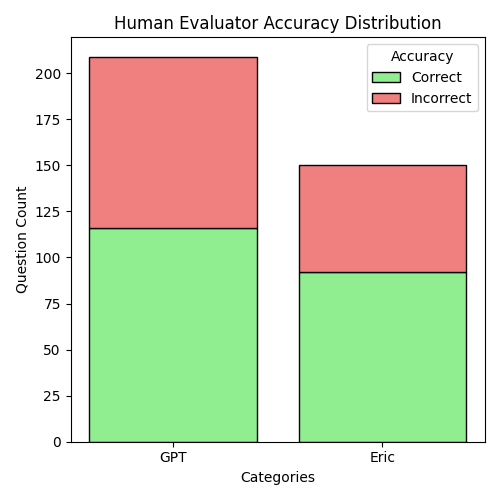
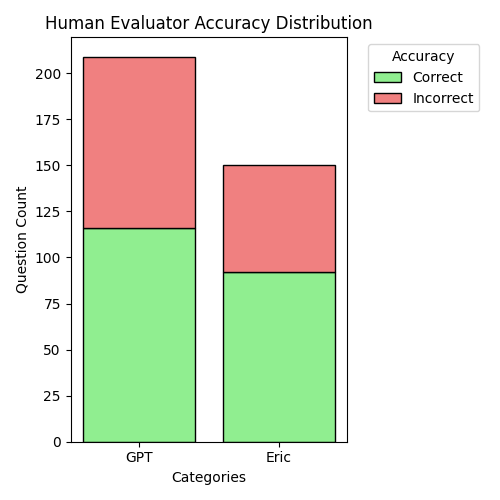
add naive bayes accuracy in graph

diff --git a/src/evaluation_methods/human_evaluation.py b/src/evaluation_methods/human_evaluation.py
@@ -16,20 +16,27 @@ print("bot acc: ", (bot_corr / (bot_corr + bot_inc)))
 print("emily acc: ", (og_corr / (og_corr + og_inc)))
 
 categories = ("GPT", "Fine Tuned LLM", "Emily")
-correct = [gpt_corr, bot_corr, og_corr]
-incorrect = [gpt_inc, bot_inc, og_inc]
+correct = [gpt_corr / (gpt_corr + gpt_inc), bot_corr / (bot_corr + bot_inc), og_corr / (og_corr + og_inc)]
+incorrect = [gpt_inc / (gpt_corr + gpt_inc), bot_inc / (bot_corr + bot_inc), og_inc / (og_corr + og_inc)]
+
+nb_corr = [5 / 9, 7 / 9, 4 / 6]
+nb_inc = [4 / 9, 2 / 9, 2 / 6]
 
 x = np.arange(len(categories))
+bar_width = 0.3
+space = 0.05
 
-fig, ax = plt.subplots(figsize=(5, 5
-))
+fig, ax = plt.subplots(figsize=(8, 6))
 
-bar1 = ax.bar(x, correct, label='Correct', color='lightgreen', edgecolor='black')
-bar2 = ax.bar(x, incorrect, bottom=correct, label='Incorrect', color='lightcoral', edgecolor='black')
+bar1 = ax.bar(x - (bar_width + space) / 2, correct, bar_width, label='Human Correct', color='lightgreen', edgecolor='black')
+bar2 = ax.bar(x - (bar_width + space) / 2, incorrect, bar_width, bottom=correct, label='Human Incorrect', color='lightcoral', edgecolor='black')
+
+bar3 = ax.bar(x + (bar_width + space) / 2, nb_corr, bar_width, label='Naive Bayes Correct', color='darkgreen', edgecolor='black')
+bar4 = ax.bar(x + (bar_width + space) / 2, nb_inc, bar_width, bottom=nb_corr, label='Naive Bayes Incorrect', color='darkred', edgecolor='black')
 
 ax.set_xlabel("Categories")
-ax.set_ylabel("Question Count")
-ax.set_title("Human Evaluator Accuracy Distribution")
+ax.set_ylabel("Question Percentage")
+ax.set_title("Human vs Naive Bayes Evaluator Accuracy Distribution")
 ax.set_xticks(x)
 ax.set_xticklabels(categories)
 ax.legend(title="Accuracy")
@@ -68,7 +75,7 @@ ax.set_ylabel("Question Count")
 ax.set_title("Human Evaluator Accuracy Distribution")
 ax.set_xticks(x)
 ax.set_xticklabels(categories)
-ax.legend(title="Accuracy")
+ax.legend(title="Accuracy", bbox_to_anchor=(1.05, 1), loc='upper left')
 
 plt.tight_layout()
 plt.savefig("IGPT/src/evaluation_methods/eric_category_accuracy.png")

diff --git a/src/fine_tuning/fine_tune_llama.py b/src/fine_tuning/fine_tune_llama.py
@@ -38,10 +38,10 @@ def tokenize_function(examples):
 
 tokenized_dataset = dataset['train'].map(tokenize_function, batched=True)
 
-train_subset = list(islice(iter(tokenized_dataset), 10000))
-train_subset = Dataset.from_list(train_subset)
-eval_subset = list(islice(iter(tokenized_dataset), 2000))
-eval_subset = Dataset.from_list(eval_subset)
+tokenized_data_list = list(iter(tokenized_dataset))
+train_data, eval_data = train_test_split(tokenized_data_list, test_size=0.2, random_state=42)
+train_subset = Dataset.from_list(train_data)
+eval_subset = Dataset.from_list(eval_data)
 
 print(train_subset[0])
 
